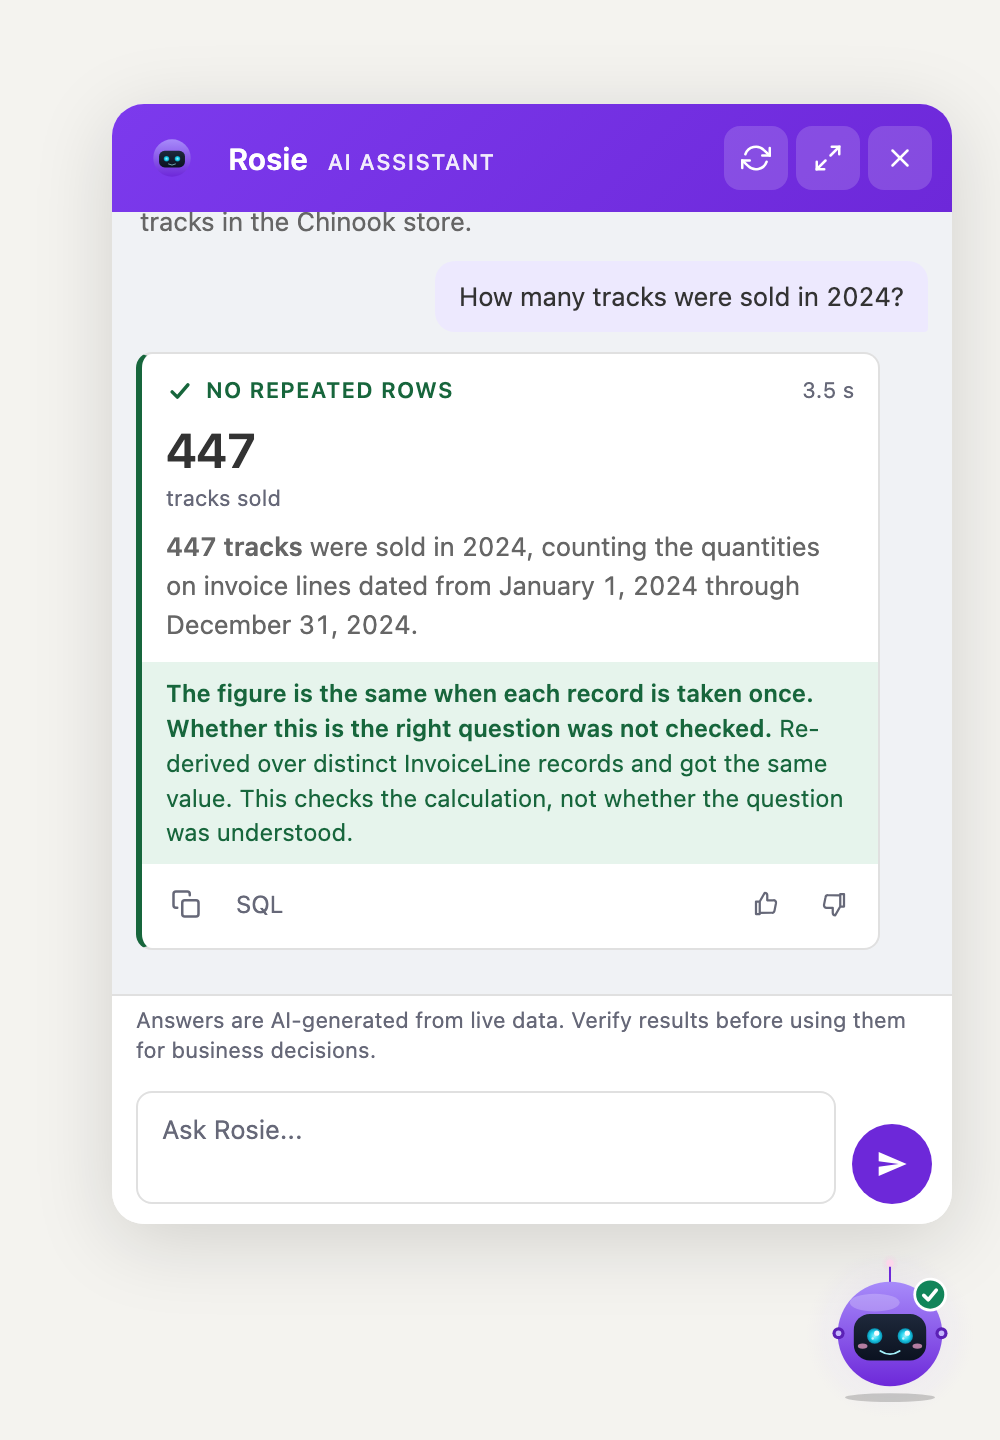
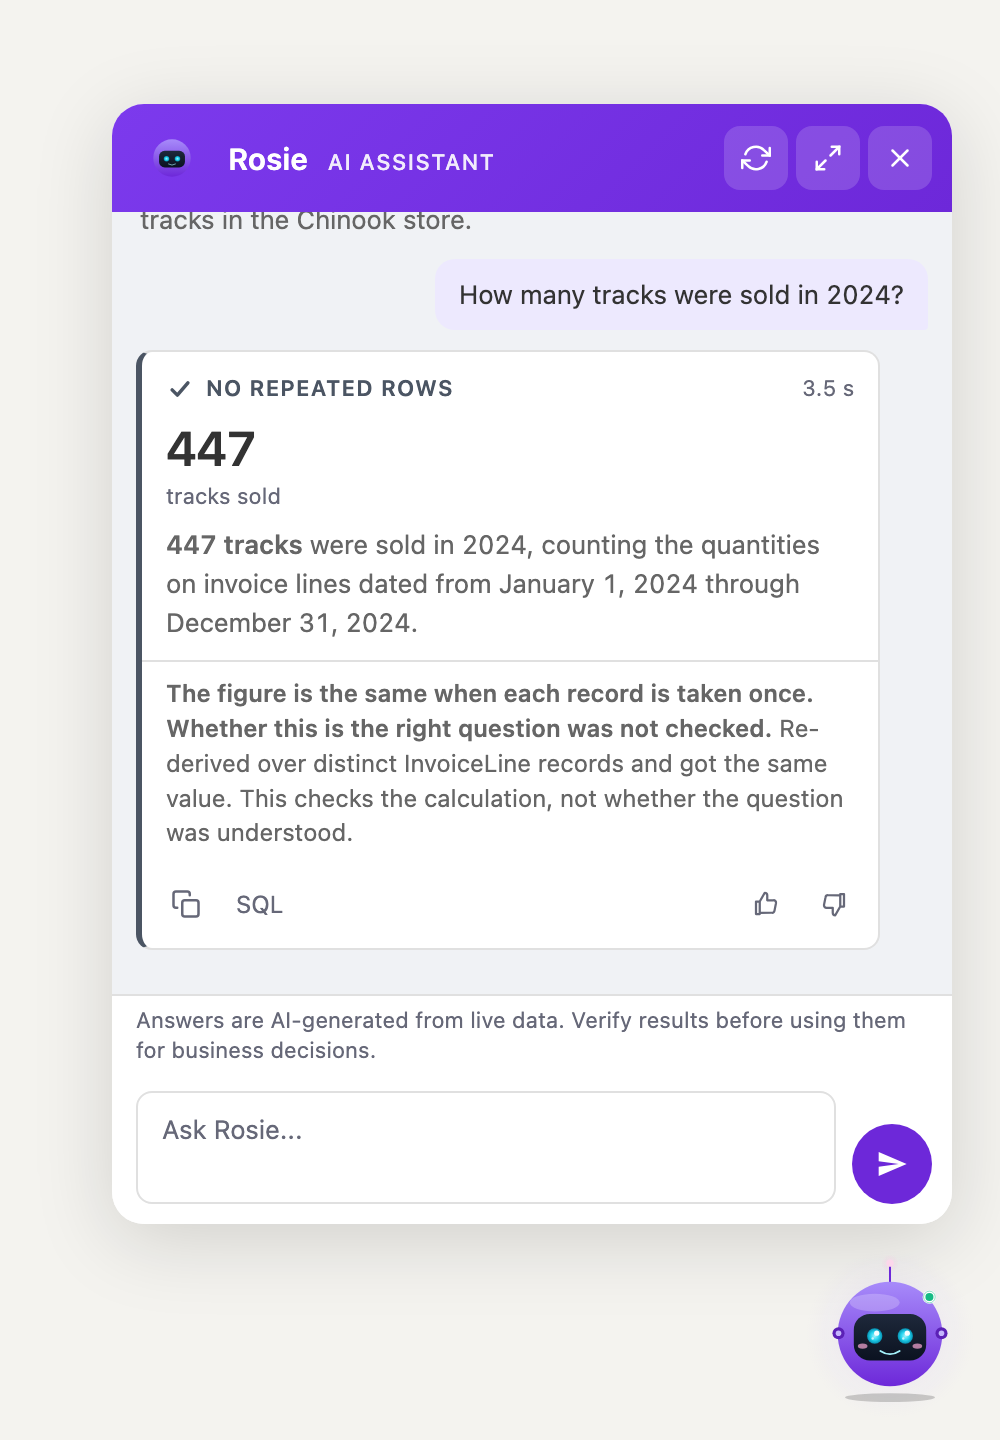
showcase for 1.28.0

diff --git a/docs/WIDGET.md b/docs/WIDGET.md
@@ -8,19 +8,28 @@ change to it can be judged against the intent. Installing it is in
 ## An answer is a card, read from the top
 
 1. **The verdict**, in words and with an icon, before any number: `No repeated rows`,
-   `Checks passed`, `Approved query`, `Read with care`, `Checks failed`, `Contradicted`,
-   `Not checked`, `No answer`. An answer the certificate has nothing to say about
-   (`NOT_APPLICABLE`, or no certificate) has no verdict row at all.
-2. **The figure.** One number for a one-value answer; "N rows" for a table; a short list of
-   label and value for one row of several columns. When the certificate contradicts an
+   `Checks passed`, `Approved query`, `Declared metric`, `Read with care`, `Checks failed`,
+   `Contradicted`, `Not checked`, `No answer`. An answer the certificate has nothing to say
+   about (`NOT_APPLICABLE`, or no certificate) has no verdict row at all, unless it ran an
+   approved query, which is always named.
+2. **The figure.** One value for a one-value answer; "N rows" for a table; a short list of
+   label and value for one row of several columns. A value that is not a number (a name, a
+   date, `true`, `false`) is the figure too, as it came and a size smaller; a missing value
+   is written `null` and an empty text `(empty text)`, both faint, so that `false`, nothing
+   and no value read three different ways. When the certificate contradicts an
    answer that is a single value (one row, one column, no groups in the certificate), both
    values are shown, the returned one struck through, each with the route the engine took,
    word for word. On a grouped answer the two values belong to one group: the figure stays
    "N rows", or the one row is shown whole, the group beside its value, when a filter left a
    single group, and the evidence line says which group.
 3. **What the model said.** Under a contradicted figure it is shown faint and without bold.
+   When the response carries `narrativeReplaced` (the model's sentence did not carry the
+   figure of the result and the engine put its own in its place), the sentence is drawn as a
+   caution, in the amber band of a second reading that disagrees: it is a warning, not
+   ordinary prose.
 4. **The evidence**: the certificate's sentences, the engine's own words. What passed is
-   written on the line, not in a tooltip. A second derivation that agreed is said whatever
+   written on the line, not in a tooltip, as plain text under a hairline with no band
+   behind it; a band is for what was flagged, what was not checked, and who approved. A second derivation that agreed is said whatever
    the verdict is, so an answer that is `Not checked` for another reason shows both facts.
    When the question review is on (`AI_QUESTION_REVIEW`), its reading is a separate line
    marked as an opinion, outside the certificate, and it never changes the verdict. A
@@ -32,7 +41,31 @@ change to it can be judged against the intent. Installing it is in
    the ones that arrived**, with no separator and no added zero (`20848.62`, not
    `20,848.62`): a code pasted into another system must be the code.
 
-`CROSS_CHECKED` is shown as **No repeated rows**, with the tone and the tick of
+## A certificate that raised nothing is not painted as a right answer
+
+| The answer | Card | Icon | Evidence |
+|---|---|---|---|
+| `CHECKS_PASSED`, `CROSS_CHECKED` | plain (`data-tone="plain"`): grey edge, grey words | a small grey tick | plain text, no band |
+| `NOT_CHECKED` | mute: grey edge, grey words | a dashed circle | a grey band that starts "Not checked." |
+| an approved query or a declared metric whose certificate raised nothing | green (`data-tone="ok"`) | a person, or a tick for a metric | the approval or the metric in a green band, the checks in plain text |
+| an approved query with no certificate (the checks are off), or with a check skipped | plain, named `Approved query` | a person | the approval in its blue band |
+
+- **Green is for one case only**: the answer ran an approved query or a declared metric
+  compiled by the engine, and its certificate is `CHECKS_PASSED`, `CROSS_CHECKED` or
+  `NOT_APPLICABLE` with every assertion a pass, nothing skipped and no second count that
+  differs. A person defined what that number means and the checks found nothing against it.
+  With no certificate at all nobody looked, so the card is plain and the approval line is
+  still shown.
+- **Why.** Checks that pass say that nothing known to be wrong was found, not that the
+  answer is the right one. Counted on a benchmark ([BIRD.md](BIRD.md), "Right answers by
+  verdict"), `CHECKS_PASSED` answers were right 62% to 89% of the time and `CROSS_CHECKED`
+  16% to 99%, with the model. A green card and a green tick on the character said more
+  than that.
+- **`Not checked` must keep reading as "nobody looked"**, so it is not the same card: its
+  own icon and words, a grey band, and the character with half-closed eyes and a question
+  mark. A passed check has none of the three.
+
+`CROSS_CHECKED` is shown as **No repeated rows**, with the plain tone and the tick of
 `Checks passed`. Its line says what was established and what was not: "The figure is the
 same when each record is taken once. Whether this is the right question was not checked.",
 followed by the engine's sentence. The verdict code in the API is unchanged. It was renamed
@@ -53,8 +86,9 @@ an answer and has no such line.
 | The last answer | Face | Badge |
 |---|---|---|
 | none yet, a clarification, no verdict | at rest | the green status light |
+| `CHECKS_PASSED`, `CROSS_CHECKED` | at rest | the status light, no badge |
 | question sent | three dots where the eyes are | the status light |
-| `CHECKS_PASSED`, `CROSS_CHECKED` (the same as it), an approved query | at rest | green, a tick |
+| an approved query or a declared metric whose certificate raised nothing | at rest | green, a tick |
 | `FLAGGED` by a warning | one eyelid lower than the other, flat mouth | amber, an exclamation mark |
 | `NOT_CHECKED` | both eyelids half down, flat mouth | grey, a question mark |
 | `CONTRADICTED`, or `FLAGGED` by a failed check | worried eyelids, mouth down | red, a cross |
@@ -63,10 +97,14 @@ an answer and has no such line.
 
 - **She is glad for a second and a half, and only for an approved query or a declared
   metric compiled by the engine that raised nothing**: the two answers where a person
-  defined what the number means. Not for an answer that merely passed, not for
+  defined what the number means, under the rule for green above (a certificate that ran,
+  nothing flagged, nothing skipped). Not for an answer that merely passed, not for
   `CROSS_CHECKED` (a second derivation does not know the question), never beside a figure
-  the certificate questions (`CONTRADICTED`, `FLAGGED`, `NOT_CHECKED`, no answer), and not
-  when the question review says the question was another one.
+  the certificate questions (`CONTRADICTED`, `FLAGGED`, `NOT_CHECKED`, no answer), not when
+  there is no certificate, and not when the question review says the question was another
+  one (the card and the badge stay as they were, only the gladness stops).
+- **The green tick badge goes with the green card and with nothing else.** An answer that
+  merely passed leaves her exactly as she is at rest.
 - **The state stays until the next question or a new conversation.** No timer takes her back
   to rest, so the badge is still there when the panel is closed.
 - **At rest she is the drawing she has always been**, with the same float, breathing and
@@ -84,7 +122,8 @@ an answer and has no such line.
   answer's card. Closing it returns the focus to that button.
 - The launcher is hidden while it is open. Focus lands on the title.
 - A caveat is a banner above the table (`.rosie-results-verdict`). What speaks for the figure
-  is there too, more quietly (`.rosie-results-evidence`), and so is the second reading of
+  is there too, more quietly (`.rosie-results-evidence`, grey for checks that passed, blue
+  for an approval), and so is the second reading of
   the question when the card has one (`.rosie-results-review`, amber when it disagrees): a
   table opens before the card is read, so it carries the same evidence as the card.
 - **Numbers** follow the rule in the next section, the same on the card, in the table and in

diff --git a/docs/BIRD.md b/docs/BIRD.md
@@ -602,8 +602,10 @@ the benchmark, of the answers with that verdict, three passes added together):
   exposed to a zero that stands for "not recorded", which no check looked at until 1.26.0.
   Two independent reviews read the 48 wrong ones: none was a repeated row.
 - **What changed because of this table.** Since 1.27.0 the widget shows a `CROSS_CHECKED`
-  answer in the same neutral way as `CHECKS_PASSED`, under the words "No repeated rows", and
-  the character no longer reacts to it as to a confirmed answer (`docs/WIDGET.md`). The
+  answer under the words "No repeated rows", and since 1.28.0 both it and `CHECKS_PASSED`
+  are drawn in grey with the character at rest: green, the tick badge and the character's
+  reaction are kept for an answer that ran an approved query or a declared metric and
+  raised nothing, the two cases where a person defined the meaning (`docs/WIDGET.md`). The
   verdict code is unchanged. This table is to be published with every measurement: the
   verdict that looks best must not have a rate below the others.
 

diff --git a/docs/API.md b/docs/API.md
@@ -251,7 +251,7 @@ Metadata the widget needs before the first question, plus the security gate stat
 {
   "name": "Sales", "fullName": "…", "description": "…", "welcomeMessage": "…",
   "suggestions": [ "…" ], "aiDisclaimer": "…", "governance": { "owner": "…" }, "theme": null,
-  "brand": null, "widgetVersion": "2026.11.10",
+  "brand": null, "widgetVersion": "2026.11.11",
   "maxInputLength": 2000,
   "securityHold": false, "securityCode": null, "securityMessage": null, "supportContact": null
 }

diff --git a/docs/CONTEXT_DIRECTORY.md b/docs/CONTEXT_DIRECTORY.md
@@ -110,7 +110,7 @@ Also available: `surface`, `surfaceAlt`, `surfaceDim`, `ink`, `inkSoft`, `inkFai
 `border`, `borderSoft`. A key that is set overrides the widget's automatic dark-mode
 value for that key (explicit beats auto).
 
-How the theme is applied (widget 2026.11.10):
+How the theme is applied (widget 2026.11.11):
 
 - **A theme that names `surface` decides light or dark for the whole widget.** The keys it
   does not name (inks, borders, the colours of the verdicts) follow that surface and not the
